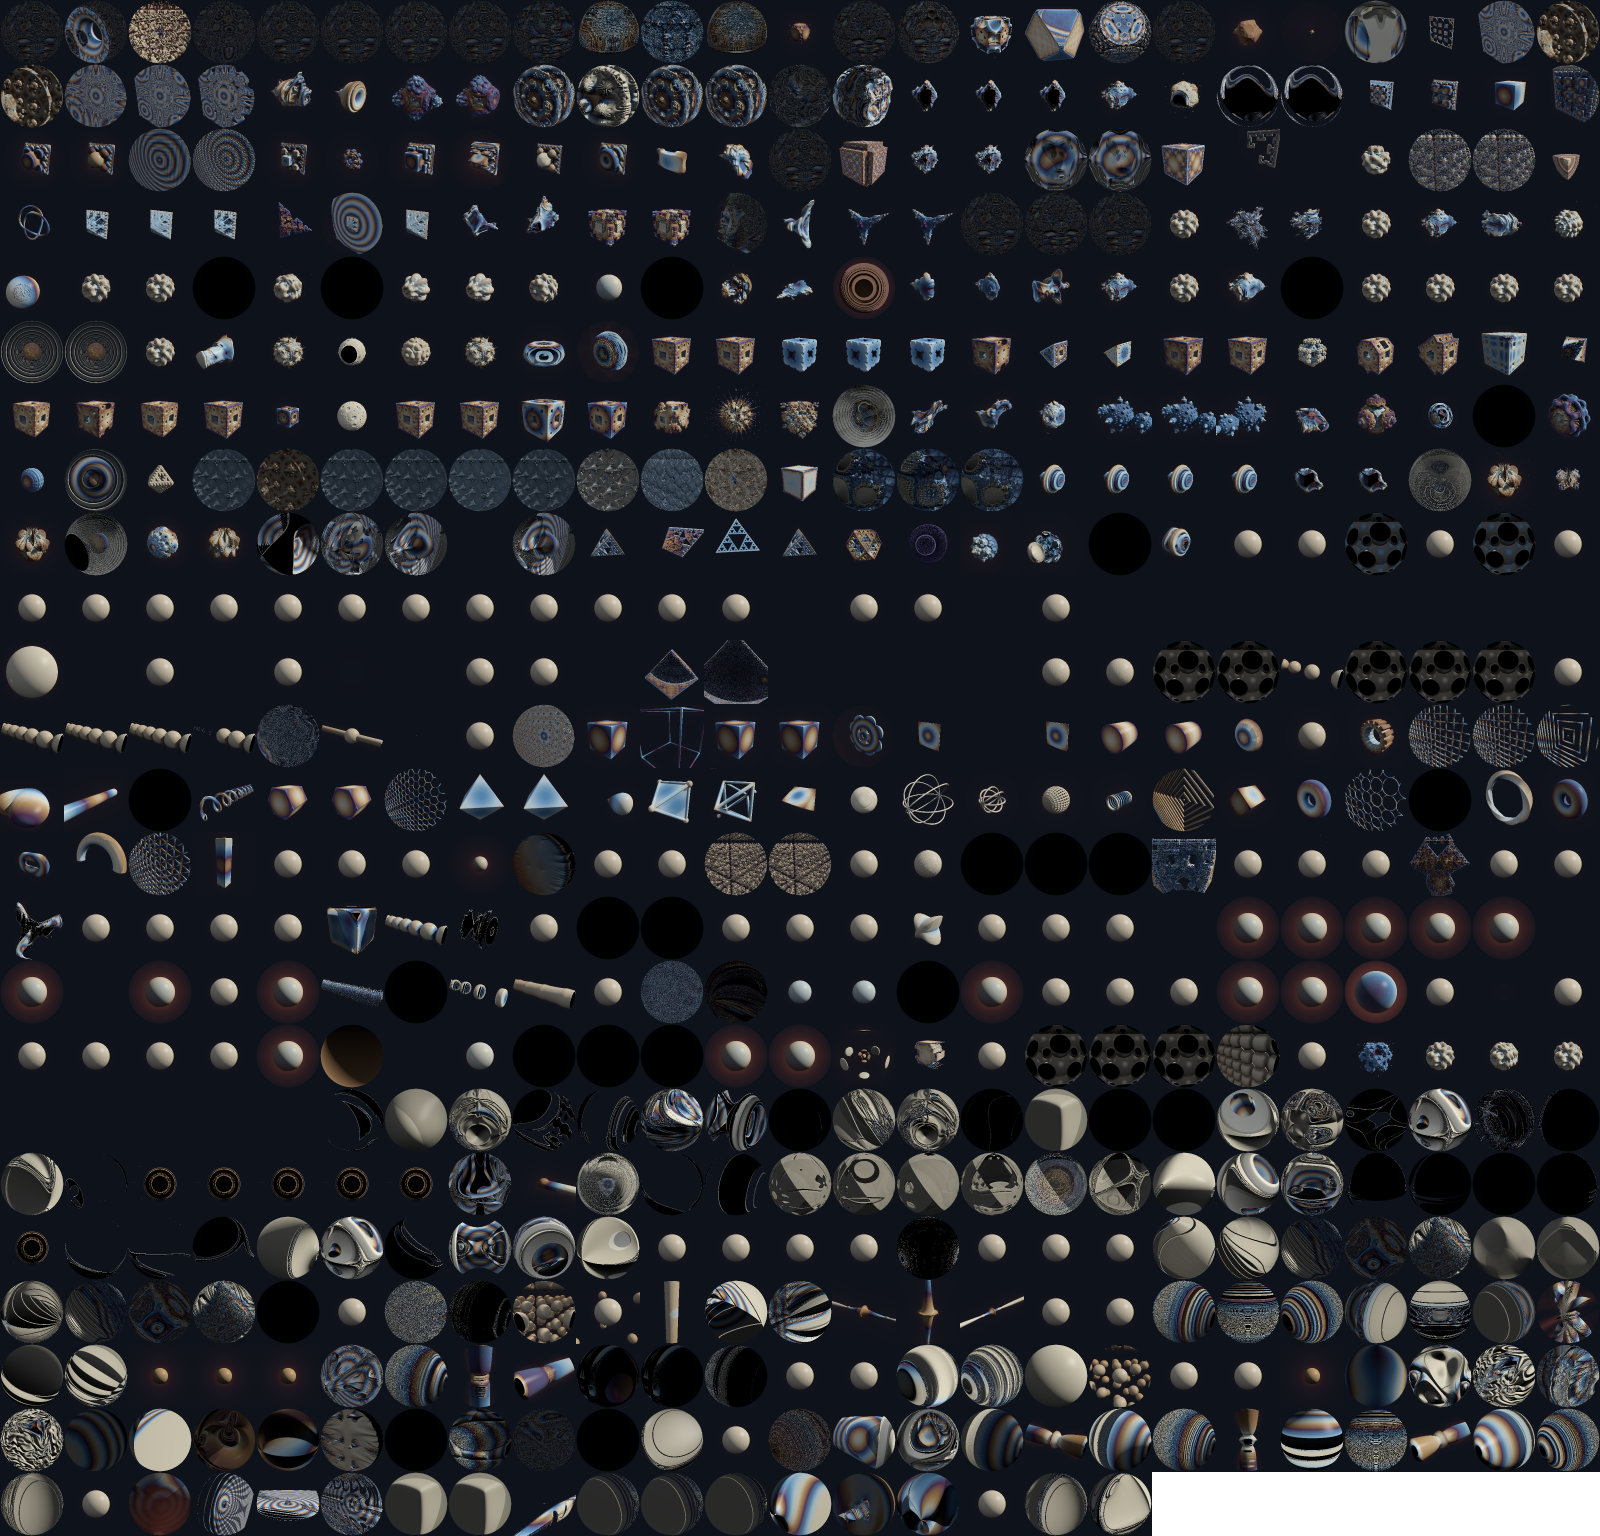
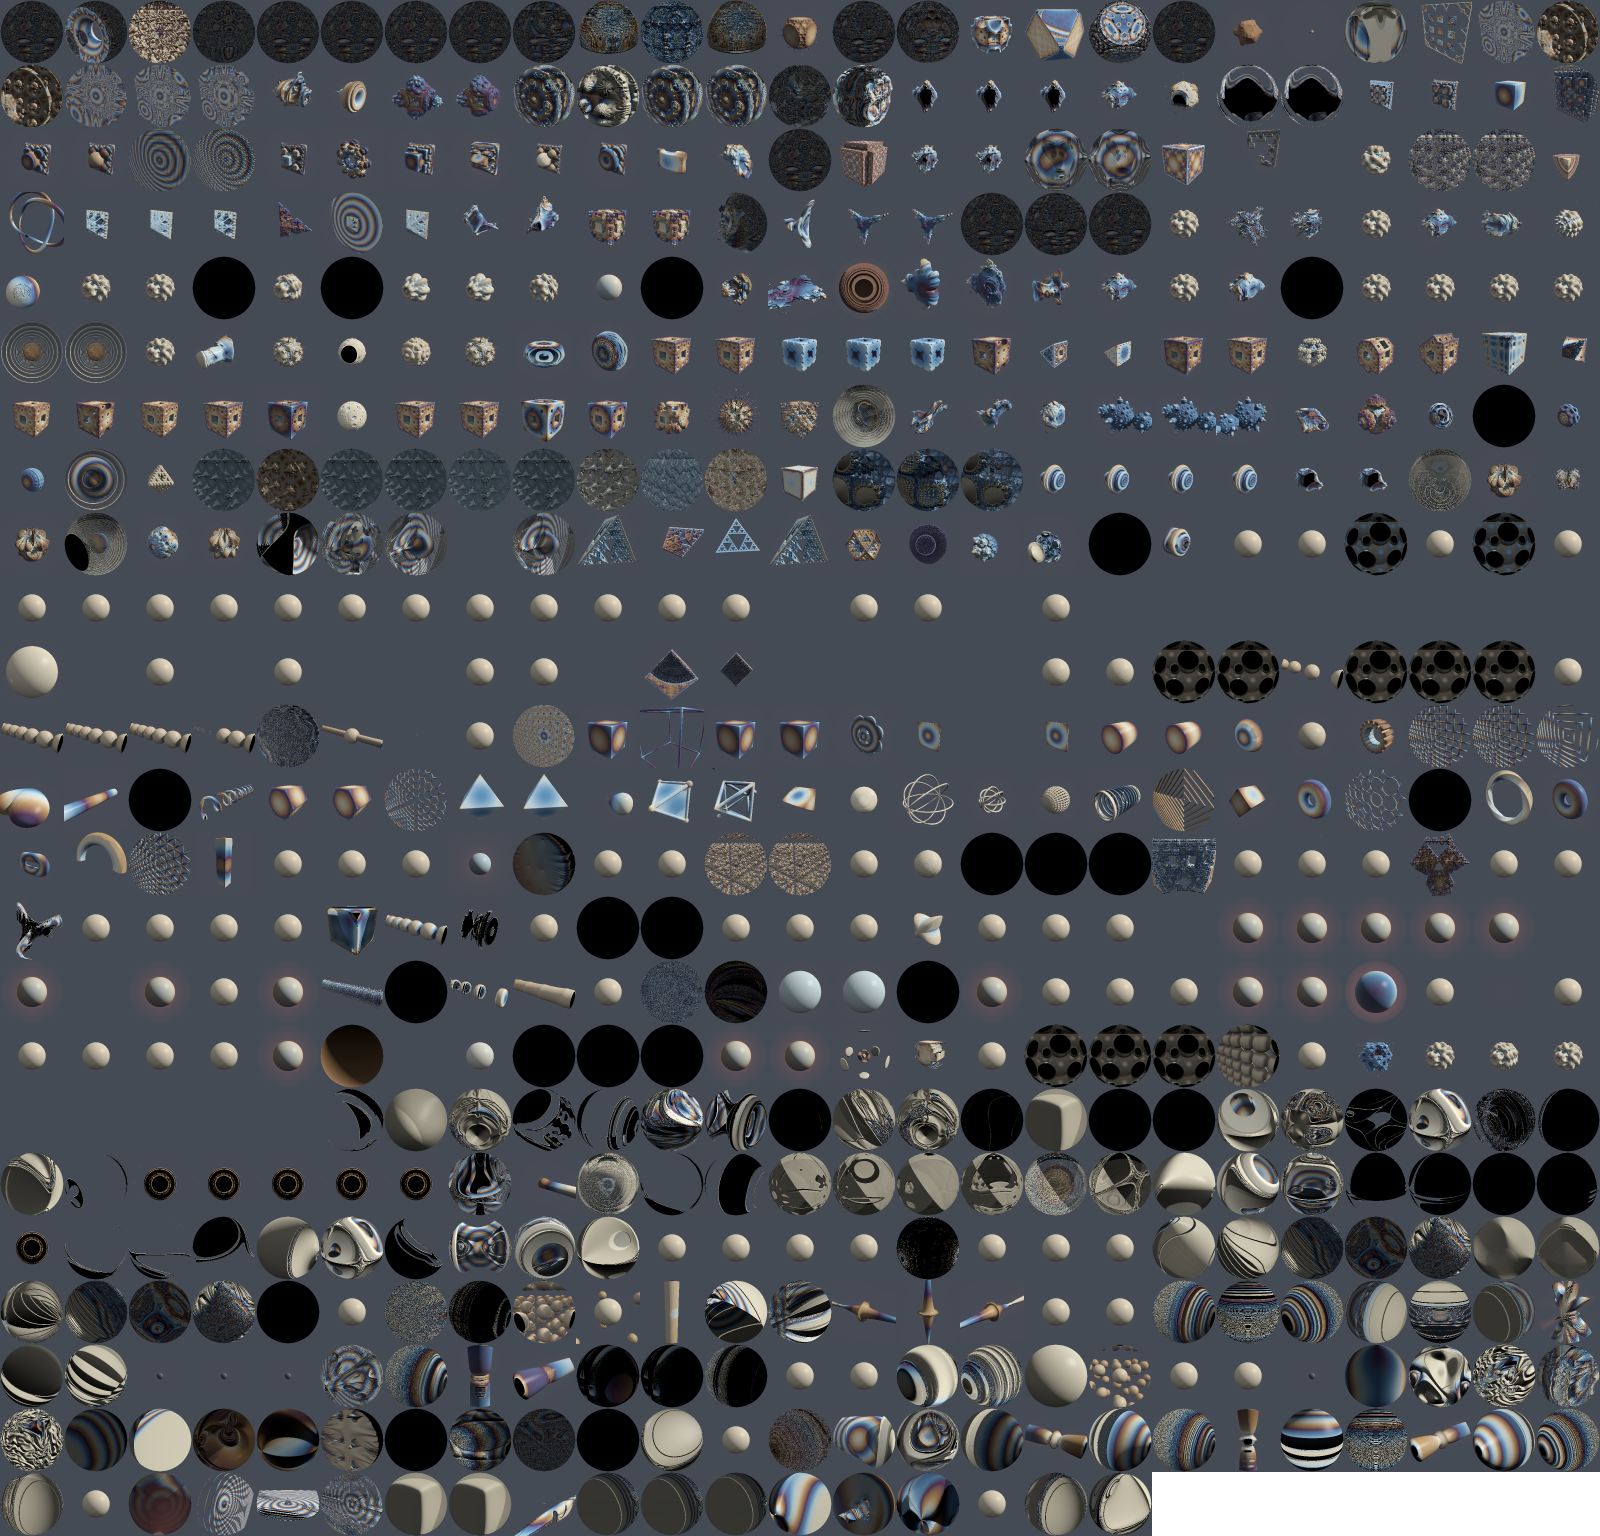
Size the formula picker to be looked at, and light the atlas to match
Andre, on the picker: the text is too small, the text is too dark, the
icons are too small, the icons are too dark — "software like 3DM, MB3D and
Mandelbulber are mainly used for digital art. Try to look at a painting
that has the size of 5-6 mm."

The previous pass had the principle backwards. Chasing fourteen visible
rows, it drew 64px atlas tiles at 30px, discarding more than half the
detail that existed to fit more of it on screen. In a tool for judging
pictures the thumbnail is the content, so it is now drawn at its native
64px and the row count follows from that — nine, and a compile-time
assertion so it cannot quietly shrink again.

The atlas itself was rendered on the scene's near-black background, which
encodes to luma 18 and left every tile within a few levels of the panel
behind it: dark shape on dark ground. Measured over all 2457600 pixels,
median luma 17.8 -> 74.4, and lit pixels below luma 32 fell from 73.6% to
8.8%. Those settings apply to the catalogue render only; SceneParams'
defaults are untouched and the default scene renders 0 of 480000 pixels
different.

Text is 1.25x throughout (body 13 -> 16px, heading 18 -> 23px) and lighter:
labels 5.12:1 -> 10.29:1 against the panel, controls 8.31:1 -> 13.17:1.
Both are asserted by tests rather than eyeballed, since I cannot see this
app render.

Two tools for the numbers above: examples/atlas_stats reports the atlas
brightness distribution, and thumbs now tallies the framings it chose —
[…]

diff --git a/src/app.rs b/src/app.rs
@@ -73,17 +73,64 @@ const THUMB_COLS: usize = crate::formulas::atlas_cols(GENERATED.len());
 /// perfect square.
 const THUMB_ROWS: usize = crate::formulas::atlas_rows(GENERATED.len());
 
+/// How much larger than egui's defaults every piece of text is drawn.
+///
+/// egui's defaults are tuned for a dense tool panel read at a normal desktop
+/// distance. This is a program for looking at pictures, often on a large
+/// display from further back, and at the default size the labels beside the
+/// controls were being read at roughly the size of the thumbnails they
+/// described — which is to say, not read.
+const TEXT_SCALE: f32 = 1.25;
+
+/// Label colour, against [`egui::Visuals::dark`]'s panel fill.
+///
+/// egui's dark theme draws ordinary labels at gray(140), which clears the
+/// accessibility floor and still reads as murky next to a bright render. These
+/// two are simply lighter; the contrast they achieve is asserted in the tests
+/// below rather than eyeballed.
+const TEXT_GRAY: u8 = 200;
+const TEXT_GRAY_INTERACTIVE: u8 = 225;
+
+/// The app's departures from egui's stock style.
+///
+/// A free function rather than a closure at the call site so the tests can
+/// measure what it produces without standing up an app.
+fn apply_ui_style(style: &mut egui::Style) {
+    style.spacing.slider_width = 150.0;
+
+    for (_, font) in style.text_styles.iter_mut() {
+        font.size = (font.size * TEXT_SCALE).round();
+    }
+
+    let widgets = &mut style.visuals.widgets;
+    // Labels and other text that is not itself a control.
+    widgets.noninteractive.fg_stroke.color = egui::Color32::from_gray(TEXT_GRAY);
+    // Text on a control at rest. Hovered and active are already near-white.
+    widgets.inactive.fg_stroke.color = egui::Color32::from_gray(TEXT_GRAY_INTERACTIVE);
+}
+
 /// Side of a thumbnail as drawn in the picker.
 ///
-/// Icon-sized rather than a preview: the picker's job is to let you scan a
-/// column of shapes, and a taller row means fewer of them on screen at once.
-const THUMB_SIZE: f32 = 30.0;
+/// The atlas tiles are 64px, so this is native resolution: drawing them at 30,
+/// as this once did, threw away more than half the detail that exists and left
+/// a fractal too small to actually judge. In a tool made for looking at
+/// pictures the thumbnail *is* the content, not a bullet point beside the name
+/// — so it is sized to be looked at, and the row count follows from that rather
+/// than the other way round.
+const THUMB_SIZE: f32 = 64.0;
+
+/// Guards the regression this replaced — shrinking the pictures below the
+/// resolution that exists, to fit more rows on screen. A compile error rather
+/// than a test, because the two numbers are known at compile time and the
+/// atlas cannot be regenerated smaller without someone editing `TILE` too.
+const _: () = assert!(THUMB_SIZE >= 64.0, "the atlas tiles are 64px");
 
 /// Formulas the picker aims to show without scrolling.
 ///
-/// Mandelbulber manages fourteen. A popup that shows one is a list you have to
-/// already know your way around, which defeats having pictures at all.
-const PICKER_ROWS: f32 = 14.0;
+/// Fewer than the fourteen this once chased, and deliberately: fourteen rows of
+/// something illegible is a worse catalogue than nine you can read. egui clamps
+/// the popup to the window anyway, so this is an upper bound, not a promise.
+const PICKER_ROWS: f32 = 9.0;
 
 /// Height of one row: the thumbnail plus egui's default item spacing.
 const PICKER_ROW: f32 = THUMB_SIZE + 6.0;
@@ -257,9 +304,7 @@ impl App {
         let cursor = pipeline.cursor.clone();
 
         cc.egui_ctx.set_visuals(egui::Visuals::dark());
-        cc.egui_ctx.all_styles_mut(|style| {
-            style.spacing.slider_width = 150.0;
-        });
+        cc.egui_ctx.all_styles_mut(apply_ui_style);
 
         let thumbs = load_thumbnails(&cc.egui_ctx);
 
@@ -2896,5 +2941,68 @@ mod nav_tests {
         };
         assert!(travel(3.0) > travel(1.0));
         assert!(travel(0.3) < travel(1.0));
+    }
+}
+
+#[cfg(test)]
+mod legibility_tests {
+    use super::*;
+
+    /// WCAG relative luminance: sRGB decoded to linear light, then weighted.
+    fn relative_luminance(c: egui::Color32) -> f32 {
+        let channel = |v: u8| {
+            let v = v as f32 / 255.0;
+            if v <= 0.04045 {
+                v / 12.92
+            } else {
+                ((v + 0.055) / 1.055).powf(2.4)
+            }
+        };
+        0.2126 * channel(c.r()) + 0.7152 * channel(c.g()) + 0.0722 * channel(c.b())
+    }
+
+    /// The WCAG contrast ratio between two colours, from 1:1 to 21:1.
+    fn contrast(a: egui::Color32, b: egui::Color32) -> f32 {
+        let (a, b) = (relative_luminance(a), relative_luminance(b));
+        (a.max(b) + 0.05) / (a.min(b) + 0.05)
+    }
+
+    fn styled() -> egui::Style {
+        let mut style = egui::Style {
+            visuals: egui::Visuals::dark(),
+            ..Default::default()
+        };
+        apply_ui_style(&mut style);
+        style
+    }
+
+    /// 4.5:1 is WCAG AA for body text. This is a tool for judging pictures, so
+    /// the text around them has no business being the hard part to read.
+    #[test]
+    fn every_text_colour_clears_the_contrast_floor() {
+        let style = styled();
+        let background = style.visuals.panel_fill;
+        for (what, colour) in [
+            ("label", style.visuals.widgets.noninteractive.fg_stroke.color),
+            ("control", style.visuals.widgets.inactive.fg_stroke.color),
+            ("hovered", style.visuals.widgets.hovered.fg_stroke.color),
+        ] {
+            let ratio = contrast(colour, background);
+            assert!(ratio >= 4.5, "{what} text is {ratio:.2}:1, want >= 4.5:1");
+        }
+    }
+
+    #[test]
+    fn text_is_larger_than_egui_ships_with() {
+        let stock = egui::Style::default();
+        let ours = styled();
+        for (style, font) in ours.text_styles.iter() {
+            let before = stock.text_styles[style].size;
+            assert!(
+                font.size > before,
+                "{style:?} is {}px, was {before}px",
+                font.size
+            );
+        }
     }
 }

diff --git a/examples/atlas_stats.rs b/examples/atlas_stats.rs
@@ -1,0 +1,91 @@
+//! Measures how legible the thumbnail atlas actually is.
+//!
+//!     cargo run --release --example atlas_stats -- [atlas.png]
+//!
+//! "Too dark" is a judgement, but it rests on numbers, and those are what this
+//! prints: how bright the lit part of a tile is, and how much of the tile is lit
+//! at all. Comparing two atlases is the point — a change to the thumbnail render
+//! should move the median of the lit pixels, not merely the overall mean, which
+//! a change in coverage alone would also move.
+
+/// Perceptual luma, on the stored sRGB values rather than linear light: the
+/// question here is what the eye is given, not what the renderer computed.
+fn luma(p: &[u8]) -> f32 {
+    0.2126 * p[0] as f32 + 0.7152 * p[1] as f32 + 0.0722 * p[2] as f32
+}
+
+fn percentile(sorted: &[f32], q: f32) -> f32 {
+    if sorted.is_empty() {
+        return 0.0;
+    }
+    let i = ((sorted.len() - 1) as f32 * q).round() as usize;
+    sorted[i]
+}
+
+fn main() {
+    let path = std::env::args()
+        .nth(1)
+        .unwrap_or_else(|| "assets/formula_thumbs.png".to_owned());
+
+    let img = image::open(&path)
+        .unwrap_or_else(|e| panic!("{path}: {e}"))
+        .to_rgba8();
+    let (w, h) = img.dimensions();
+
+    let mut all = Vec::with_capacity((w * h) as usize);
+    // The atlas is drawn over a transparent clear, so alpha separates the shape
+    // from the empty ground around it. Averaging the ground in would report a
+    // dark atlas no matter how bright the fractals are.
+    let mut lit = Vec::new();
+    let mut histogram = [0u64; 16];
+
+    for p in img.pixels() {
+        let l = luma(&p.0);
+        all.push(l);
+        histogram[((l / 256.0) * 16.0) as usize % 16] += 1;
+        if p.0[3] > 8 {
+            lit.push(l);
+        }
+    }
+
+    all.sort_by(f32::total_cmp);
+    lit.sort_by(f32::total_cmp);
+
+    let mean = |v: &[f32]| v.iter().sum::<f32>() / v.len().max(1) as f32;
+    let coverage = lit.len() as f32 / all.len() as f32;
+
+    println!("{path}: {w}x{h}, {} pixels", all.len());
+    println!("  lit coverage      {:.1}%", coverage * 100.0);
+    println!(
+        "  luma over all     mean {:.1}  median {:.1}  p90 {:.1}",
+        mean(&all),
+        percentile(&all, 0.5),
+        percentile(&all, 0.9)
+    );
+    println!(
+        "  luma where lit    mean {:.1}  median {:.1}  p10 {:.1}  p90 {:.1}",
+        mean(&lit),
+        percentile(&lit, 0.5),
+        percentile(&lit, 0.1),
+        percentile(&lit, 0.9)
+    );
+    // The complaint was "too dark", so the tail that matters is the bottom one:
+    // pixels a viewer cannot separate from the panel behind them.
+    let murky = lit.iter().filter(|&&l| l < 32.0).count();
+    println!(
+        "  lit but under 32  {:.1}% of lit pixels",
+        murky as f32 / lit.len().max(1) as f32 * 100.0
+    );
+
+    println!("  histogram (16 buckets of 16 luma, all pixels):");
+    for (i, n) in histogram.iter().enumerate() {
+        let share = *n as f64 / all.len() as f64;
+        println!(
+            "    {:>3}..{:<3} {:>6.2}% {}",
+            i * 16,
+            i * 16 + 15,
+            share * 100.0,
+            "#".repeat((share * 200.0).round() as usize)
+        );
+    }
+}

diff --git a/examples/thumbs.rs b/examples/thumbs.rs
@@ -80,6 +80,11 @@ async fn run() {
     let rows = (count as u32).div_ceil(cols);
     let mut atlas = vec![0u8; (cols * TILE * rows * TILE * 4) as usize];
     let atlas_w = cols * TILE;
+    // How many formulas ended up at each framing. Printed at the end because
+    // the coverage test that picks a frame reads the rendered pixels, so
+    // anything that changes how a tile *looks* can silently change how tightly
+    // every shape is framed. A shift in this tally is the signal.
+    let mut framings = std::collections::BTreeMap::<String, usize>::new();
 
     for (index, f) in GENERATED.iter().enumerate() {
         let mut params = SceneParams {
@@ -92,6 +97,18 @@ async fn run() {
         params.retune_for_stack();
         params.fractal.iterations = 14;
         params.march.max_steps = 128;
+
+        // A thumbnail is not a small render of the scene — it is a picture in a
+        // catalogue, and it is read at 64 pixels against a dark panel. The
+        // scene's own near-black background (luma ~18 once encoded) put the
+        // whole atlas within a few levels of the UI behind it: dark shape on
+        // dark ground, which is exactly the "too dark" complaint. So the tile
+        // gets a lighter ground and a little more ambient light, purely for the
+        // catalogue. None of this touches SceneParams::default(), so the scene
+        // the app opens with is unchanged.
+        params.background.color1 = [0.055, 0.065, 0.085];
+        params.shading.ambient = 0.55;
+        params.picture.brightness = 1.1;
 
         let (key, source) = params.shader();
 
@@ -109,6 +126,11 @@ async fn run() {
         // a speck in the middle of the tile. Try progressively tighter frames
         // and keep the first that fills a reasonable part of the picture.
         let mut best: Option<Vec<u8>> = None;
+        // Reported so a change to the tile's *look* can be checked against the
+        // framing it produces. The two are coupled through the coverage test,
+        // and a brighter tile that quietly reframes every shape smaller would
+        // undo the point of the exercise.
+        let mut chosen = f32::NAN;
         for scale in [1.0, 0.55, 0.3, 0.16] {
             let mut camera = Camera::default();
             camera.frame(params.fractal.bounding_radius * scale);
@@ -211,11 +233,14 @@ async fn run() {
             let good = (0.10..=0.85).contains(&coverage);
             if good || best.is_none() {
                 best = Some(tile);
+                chosen = scale;
             }
             if good {
                 break;
             }
         }
+
+        *framings.entry(format!("{chosen}")).or_insert(0usize) += 1;
 
         if let Some(tile) = best {
             let (tx0, ty0) = ((index as u32 % cols) * TILE, (index as u32 / cols) * TILE);
@@ -245,4 +270,10 @@ async fn run() {
         "assets/formula_thumbs.png: {count} tiles, {cols}x{rows} of {TILE}px, {:.1} KB",
         bytes as f32 / 1024.0
     );
+    let tally = framings
+        .iter()
+        .map(|(scale, n)| format!("{scale}x{n}"))
+        .collect::<Vec<_>>()
+        .join("  ");
+    println!("framings chosen: {tally}");
 }
